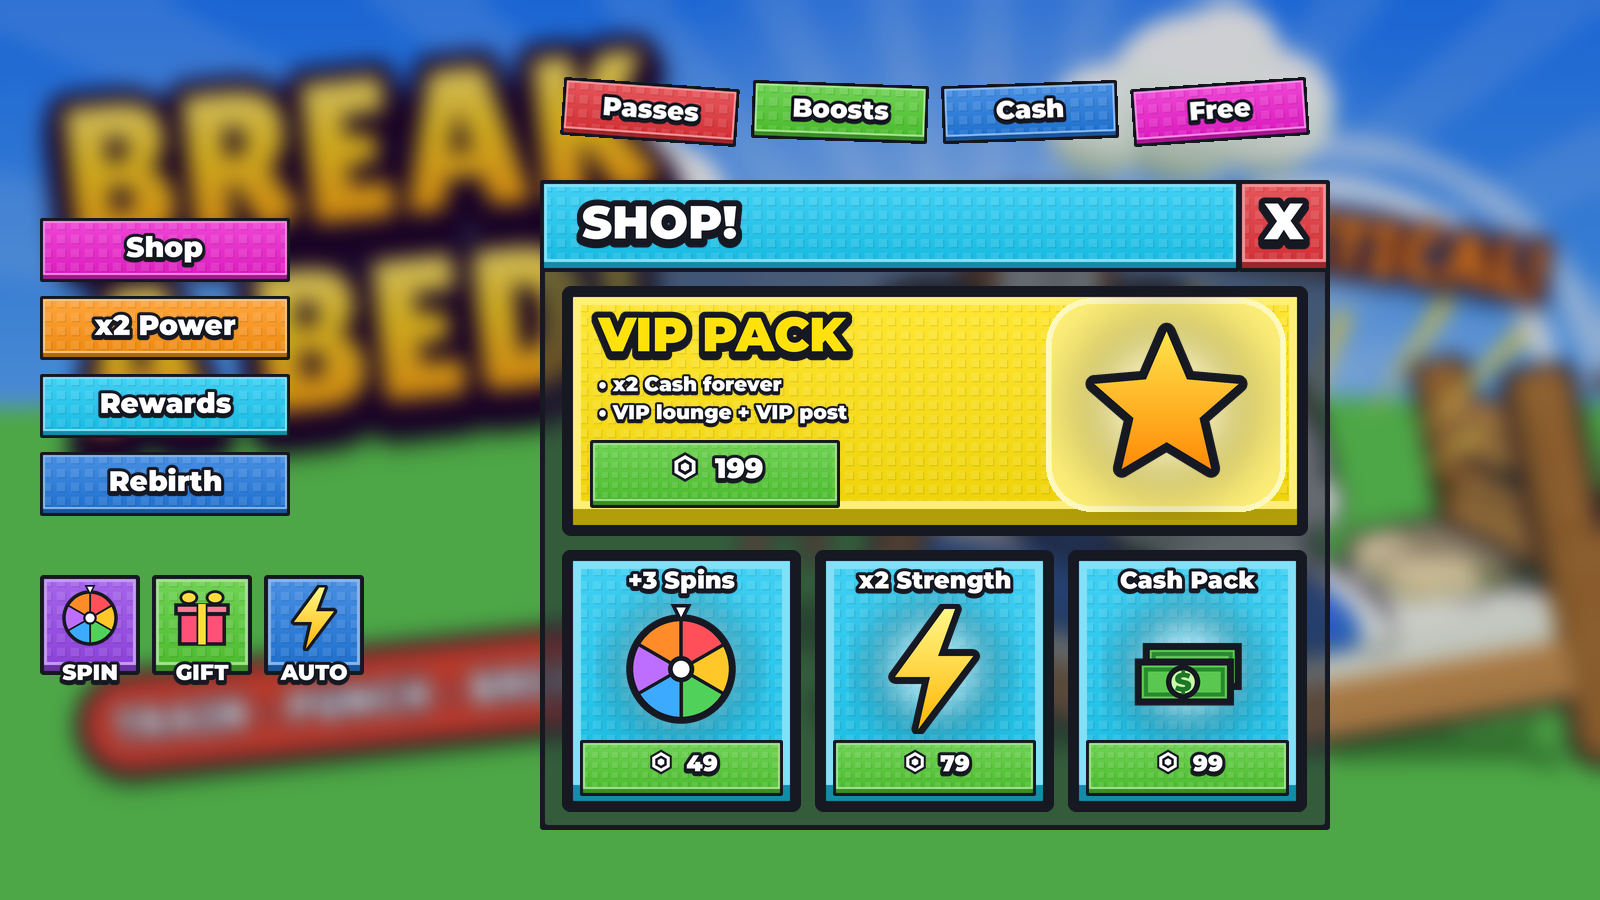
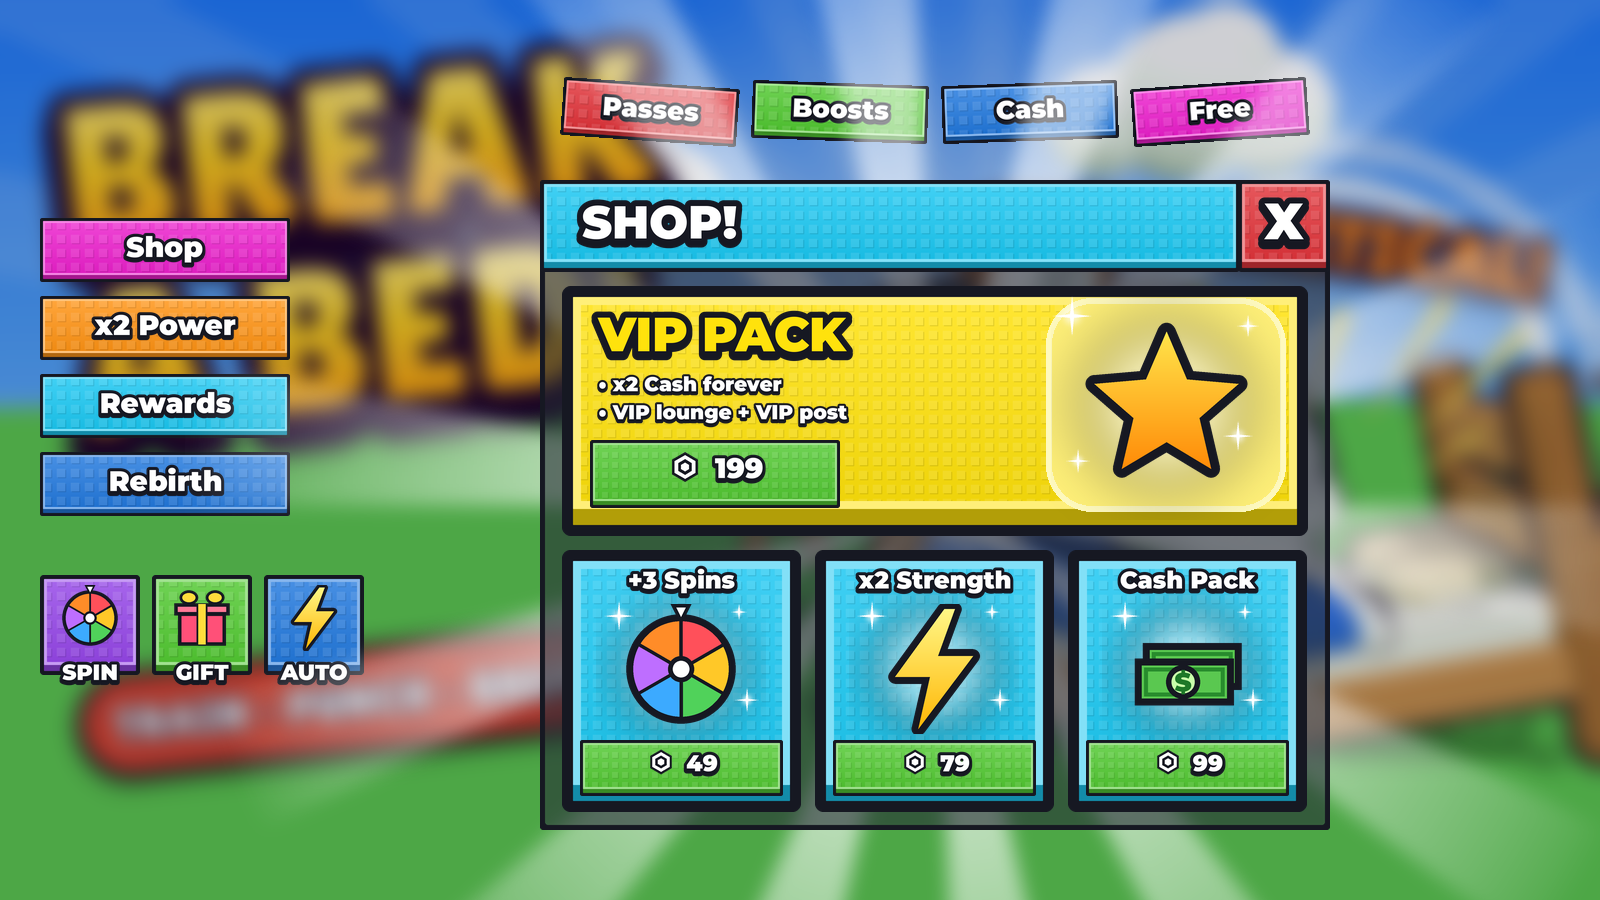
Break A Bed: UI Kit effects like the reference (light rays, sparkles, glow)
Claude-Session: https://claude.ai/code/session_016uvrS3Ui1ijFbyufuEdzSK

diff --git a/Break A Bed/UI Kit/source/kit.py b/Break A Bed/UI Kit/source/kit.py
@@ -141,3 +141,54 @@ if __name__ == '__main__':
     box(320, 360, 'cyan').save(f'{out}/card-cyan.png')
     stud_tile().save(f'{out}/pattern-studs.png')
     print('done')
+
+# ---- effects (as in the reference): sparkles, soft glow, light rays ----
+from PIL import ImageFilter
+import math
+
+def sparkle(n=128):
+    """White 4-point twinkle star with a soft halo."""
+    W = n * S
+    im = Image.new('RGBA', (W, W), (0, 0, 0, 0))
+    halo = Image.new('L', (W, W), 0)
+    ImageDraw.Draw(halo).ellipse((W*0.3, W*0.3, W*0.7, W*0.7), fill=160)
+    halo = halo.filter(ImageFilter.GaussianBlur(W * 0.08))
+    im.paste((255, 255, 255, 255), (0, 0), halo)
+    c, r, k = W / 2, W * 0.48, W * 0.07
+    pts = []
+    for i in range(8):
+        a = -math.pi / 2 + i * math.pi / 4
+        rr = r if i % 2 == 0 else k
+        pts.append((c + rr * math.cos(a), c + rr * math.sin(a)))
+    ImageDraw.Draw(im).polygon(pts, fill=(255, 255, 255, 255))
+    return im.resize((n, n), Image.LANCZOS)
+
+def soft_glow(n=256, alpha=255):
+    g = Image.new('L', (n, n), 0)
+    ImageDraw.Draw(g).ellipse((n*0.18, n*0.18, n*0.82, n*0.82), fill=alpha)
+    g = g.filter(ImageFilter.GaussianBlur(n * 0.12))
+    im = Image.new('RGBA', (n, n), (255, 255, 255, 0)); im.putalpha(g)
+    return im
+
+def rays(n=1024, count=12, alpha=150):
+    """White light beams from the centre, fading out (spin slowly behind menus)."""
+    W = n * 2
+    m = Image.new('L', (W, W), 0)
+    d = ImageDraw.Draw(m)
+    c = W / 2
+    for i in range(count):
+        a0 = math.radians(i * 360 / count)
+        a1 = a0 + math.radians(360 / count * 0.42)
+        d.polygon([(c, c), (c + W * math.cos(a0), c + W * math.sin(a0)), (c + W * math.cos(a1), c + W * math.sin(a1))], fill=alpha)
+    fade = Image.new('L', (W, W), 0)
+    fd = ImageDraw.Draw(fade)
+    for r in range(int(c), 0, -4):
+        fd.ellipse((c - r, c - r, c + r, c + r), fill=int(255 * min(1, 1.6 * (1 - r / c)) ** 0.8))
+    m = ImageChops.multiply(m, fade).filter(ImageFilter.GaussianBlur(W * 0.006))
+    im = Image.new('RGBA', (W, W), (255, 255, 255, 0)); im.putalpha(m)
+    return im.resize((n, n), Image.LANCZOS)
+
+if __name__ == '__main__':
+    sparkle().save(f'{out}/fx-sparkle.png')
+    soft_glow().save(f'{out}/fx-glow.png')
+    rays().save(f'{out}/fx-rays.png')

diff --git a/Break A Bed/UI Kit/source/preview.py b/Break A Bed/UI Kit/source/preview.py
@@ -1,6 +1,6 @@
 import math, sys
 from PIL import Image, ImageDraw, ImageFont, ImageFilter
-from kit import box, window, label, x_mark, OUTLINE, FONT, S, mix, mask_rr
+from kit import sparkle, soft_glow, rays, box, window, label, x_mark, OUTLINE, FONT, S, mix, mask_rr
 
 def font(sz): return ImageFont.truetype(FONT, sz)
 
@@ -91,6 +91,7 @@ def main(bgpath, out):
         b = box(176, 58, col); label(b, (88, 26), t, 26)
         paste(img, b, (cx - 285 + i*190, 112), rot=r)
     ww, wh = 790, 650
+    paste(img, rays(1500, 14, 170), (cx, cy))
     paste(img, window(ww, wh), (cx, cy))
     top = cy - wh/2
     hdr = box(ww - 90, 92, 'cyan'); label(hdr, (36, 42), 'SHOP!', 46, anchor='lm')
@@ -104,6 +105,8 @@ def main(bgpath, out):
     feat.alpha_composite(slot, (fw - 262, 12))
     feat.alpha_composite(glow(230, (255, 255, 255)), (fw - 257, 4))
     feat.alpha_composite(icon('star', 165), (fw - 224, 34))
+    for sx, sy, sz in ((fw - 236, 30, 40), (fw - 70, 150, 30), (fw - 60, 40, 22), (fw - 230, 175, 24)):
+        feat.alpha_composite(sparkle(sz), (sx - sz//2, sy - sz//2))
     label(feat, (30, 48), 'VIP PACK', 48, fill=(255, 226, 12), anchor='lm')
     label(feat, (34, 98), '• x2 Cash forever', 20, anchor='lm')
     label(feat, (34, 126), '• VIP lounge + VIP post', 20, anchor='lm')
@@ -115,6 +118,8 @@ def main(bgpath, out):
         c = box(cw, 262, 'cyan')
         c.alpha_composite(glow(170, (255, 255, 255)), (cw//2 - 85, 34))
         c.alpha_composite(icon(ic, 130), (cw//2 - 65, 54))
+        for sx, sy, sz in ((cw//2 - 62, 66, 30), (cw//2 + 66, 150, 24), (cw//2 + 58, 62, 16)):
+            c.alpha_composite(sparkle(sz), (sx - sz//2, sy - sz//2))
         label(c, (cw/2, 30), t, 24)
         c.alpha_composite(price_btn(cw - 36, 56, p), (18, 190))
         paste(img, c, (cx - ww/2 + 22 + cw/2 + i*(cw + 14), top + 92 + 14 + 250 + 14 + 131))

diff --git a/Break A Bed/UI Kit/UI Kit.md b/Break A Bed/UI Kit/UI Kit.md
@@ -25,6 +25,9 @@ None of the images have text in them. Text stays as Roblox TextLabels so numbers
 | `card-cyan.png` | 320 × 360 | Normal shop item card |
 | `icon-<name>.png` | 256 × 256 | star, bolt, cash, wheel, gift, robux |
 | `pattern-studs.png` | 56 × 56 | Stud pattern for frames of any size |
+| `fx-rays.png` | 1024 × 1024 | White light rays behind open menus |
+| `fx-sparkle.png` | 128 × 128 | White 4-point twinkle around items |
+| `fx-glow.png` | 256 × 256 | Soft white glow behind item icons |
 
 Colors: pink, purple, cyan, blue, orange, green, red, yellow, slate.
 
@@ -48,6 +51,14 @@ Matched to the owner's reference picture on 2026-10-12. Use these exact values s
 | Glow behind item icons | white, soft, about 40% opacity |
 
 Base colors: cyan `#1CC8F2`, blue `#247ADE`, pink `#EC22CD`, purple `#9648E8`, orange `#FF9416`, green `#54CA34`, red `#E2363C`, yellow `#FFE20C`, slate `#3E4454`.
+
+**Effects (same as the reference):**
+- **Light rays:** `fx-rays.png` behind every open menu, about 1.9× the window width, centered on it, ImageTransparency 0.25, spinning slowly (one full turn every 40 s). Fade in with the menu.
+- **Glow:** `fx-glow.png` behind every item icon, about 1.3× the icon size, ImageTransparency 0.4.
+- **Featured slot:** the big item on the yellow card sits in a lighter yellow rounded panel (`#FFF078`, 6 px `#FFFABE` border, UICorner 46 px) with the glow behind it.
+- **Sparkles:** 3–4 `fx-sparkle.png` around each item icon at different sizes (16–40 px). They twinkle: grow from 0 to full size and fade out over about 1.2 s, each starting at a random time, looping.
+- **Opening a menu:** it pops in from 85% to 100% size with a small overshoot (Back easing, 0.25 s). Buttons shrink to 94% while pressed and bounce back.
+- Effects are images only (no `UIGradient` shine or blur on the window).
 
 **Big menu layout:** see-through dark window → cyan title bar along the top with the title on the left, red X square at the top-right corner → yellow featured card full width → a row of cyan item cards, each with a title at the top, an icon with a white glow in the middle and a green price button at the bottom. Gaps between cards are 14 px and show the dark window. Tabs sit above the window, each tilted 2–4°.
 
